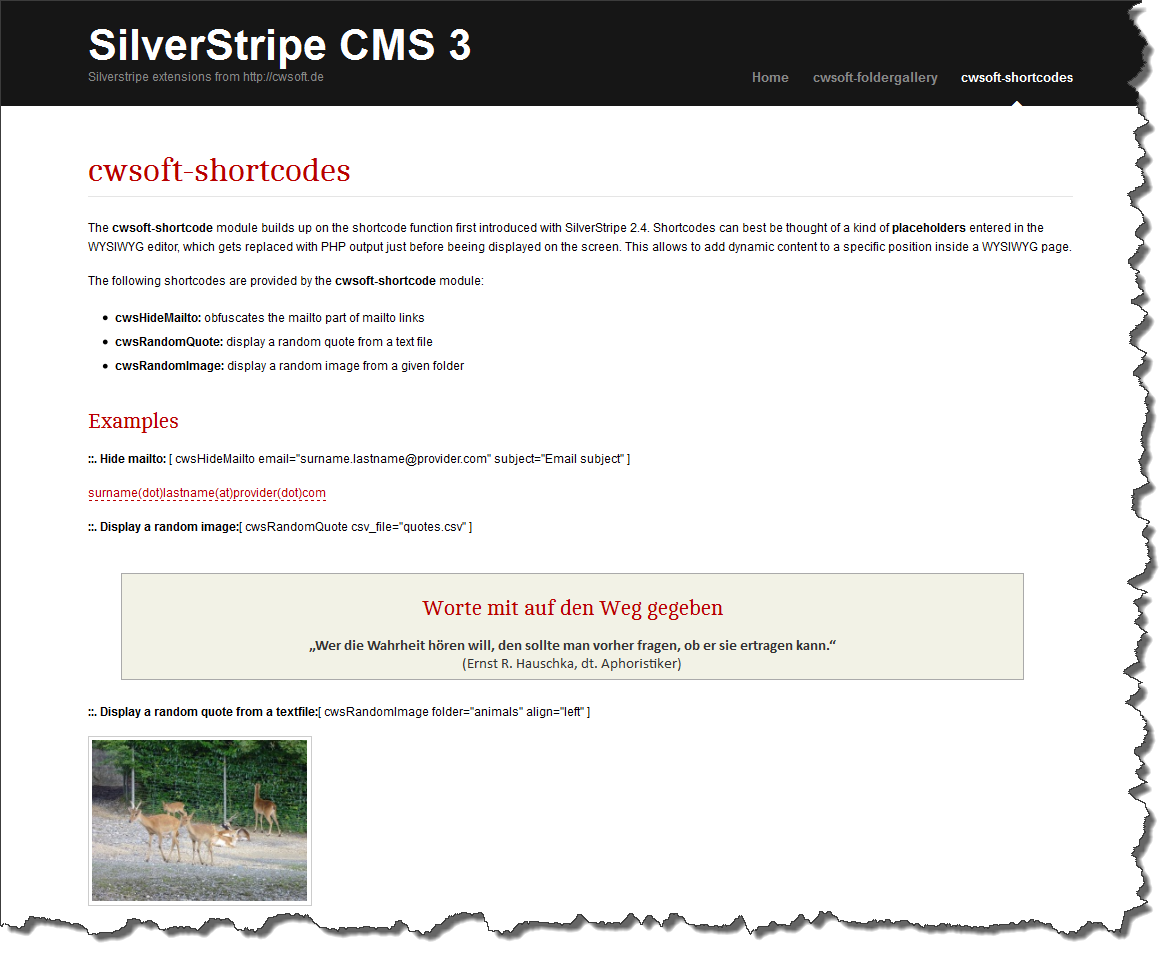
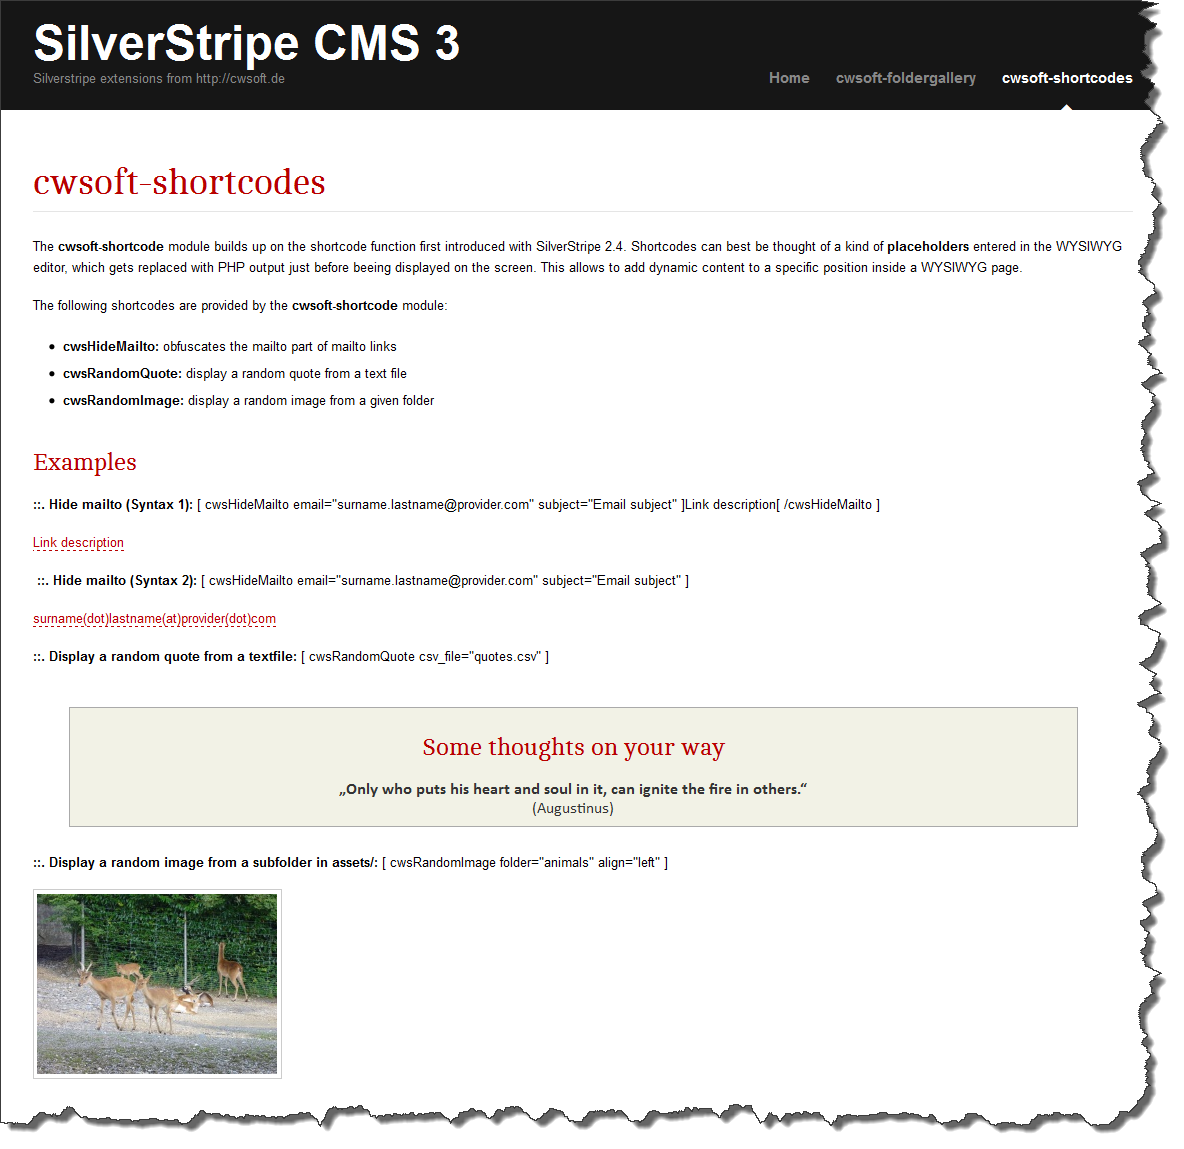
Issued version 2.1.0
- updated old _t() calls in templates with new syntax <%t %>
- reworked template files

Changed region(s): [[0.0, 0.0, 1.0, 0.999]]

diff --git a/cwsoft-shortcode/code/cwsShortCodeRandomQuote.php b/cwsoft-shortcode/code/cwsShortCodeRandomQuote.php
@@ -23,7 +23,7 @@
 class cwsShortCodeRandomQuote {
 	/**
 	 * Displays random quote from a CSV file located in a assets subfolder
-	 * Uses template "cwsoft-shortcode/templates/Includes/cwsShortCodeRandomQuote.ss" for output 
+	 * Uses template "cwsoft-shortcode/templates/Includes/RandomQuote.ss" for output 
 	 * 
 	 * @param $arguments (csv_file = 'subfolder_in_assets/csv_file.csv')
 	 * @param $content = null
@@ -34,13 +34,12 @@ class cwsShortCodeRandomQuote {
 		// only proceed if a CSV file was specified 
 		if (! isset($arguments['csv_file'])) return;
 		
-		$citation = array();
-		$csvFile = 'assets/' . Convert::raw2sql($arguments['csv_file']);
-		
-		// make sure $csvFile resists inside assets folder (valid file object)   
-		if (File::find($csvFile)) {
+		// check if CSV file exists in assets folder
+		$csvFile = ASSETS_DIR . '/' . Convert::raw2sql($arguments['csv_file']);
+		$data = array();
+		if (Director::fileExists($csvFile)) {
 			$csv = new CSVParser($filename = $csvFile, $delimiter = '|', $enclosure = '"');
-			// iterate through imported quotes|author entries and store results in array
+			// iterate through imported Quotes|Author entries and store results in array
 			$citations = array();
 			foreach($csv as $row) {
   				// only store entries with two data fields (quotation and author)
@@ -48,20 +47,19 @@ class cwsShortCodeRandomQuote {
             	$citations[] = $row;
 			}
 
-        	// randomize citation array, pick first element for display
+			// prepare data for output (randomize array and fetch first citation for output)
         	shuffle($citations);
-			$cwsRandomQuote = $citations[0];
-			unset($citations);
+			$data = $citations[0];
 		}
 		
-		// use default citation if CSV file is invalid
-		if (! (isset($cwsRandomQuote['quote']) && isset($cwsRandomQuote['author'])) ) {
-			$cwsRandomQuote['quote'] = _t('cwsShortCodeRandomQuote.DEFAULTQUOTE','Only who puts his heart and soul in it, can ignite the fire in others.');
-			$cwsRandomQuote['author'] = _t('cwsShortCodeRandomQuote.DEFAULTAUTHOR','Augustinus');
+		// use default citation if CSV file does not exist or is invalid
+		if (! (isset($data['Quote']) && isset($data['Author'])) ) {
+			$data['Quote'] = _t('cwsShortCodeRandomQuote.DEFAULT_QUOTE','Only who puts his heart and soul in it, can ignite the fire in others.');
+			$data['Author'] = _t('cwsShortCodeRandomQuote.DEFAULT_AUTHOR','Augustinus');
 		}
 		
 		// load template and process data
-		$template = new SSViewer('cwsShortCodeRandomQuote');
-		return $template->process(new ArrayData($cwsRandomQuote));	
+		$template = new SSViewer('RandomQuote');
+		return $template->process(new ArrayData($data));	
 	}
 }

diff --git a/cwsoft-shortcode/code/cwsShortCodeRandomImage.php b/cwsoft-shortcode/code/cwsShortCodeRandomImage.php
@@ -24,12 +24,12 @@
 class cwsShortCodeRandomImage {
 	/**
 	 * Displays a random image with colorbox effect from a given assets subfolder
-	 * Uses template "csoft-shortcode/templates/Includes/cwsShortCodeRandomImage.ss" for output 
+	 * Uses template "csoft-shortcode/templates/Includes/RandomImage.ss" for output 
 	 * 
 	 * @param mixed $arguments (folder='subfolder_in_assets' align='left|right')
 	 * @param $content = null
 	 * @param $parser = null
-	 * @return processed template cwsShortCodeRandomImage.ss
+	 * @return processed template RandomImage.ss
 	 */
 	public static function cwsShortCodeRandomImageHandler($arguments, $content = null, $parser = null) {
 		// only proceed if subfolder was defined
@@ -43,22 +43,24 @@ class cwsShortCodeRandomImage {
 		$folder = Folder::get()->filter('Filename', "assets/$folder/")->First();
 		$randomImage = ($folder) ? Image::get()->filter('ParentID', $folder->ID)->sort('RAND()') : false;
 		
-		// quit in case user defined folder does not contain any image
+		// exit if user defined folder does not contain any image
 		if (! $randomImage) return;
 		
-		// build the output data
-		$randomImage = $randomImage->First();
-		$data = array();
-
-		$data['cwsRandomImage'] = $randomImage;
-		$data['align'] = $align;
-		$data['caption'] = $randomImage->Title;
-		if (preg_match('#(\d*-)?(.+)\.(jpg|gif|png)#i', $data['caption'], $matches)) {
-			$data['caption'] = ucfirst(str_replace('-', ' ', $matches[2]));
+		// extract image caption from image filename
+		$caption = $randomImage->Title;
+		if (preg_match('#(\d*-)?(.+)\.(jpg|gif|png)#i', $caption, $matches)) {
+			$caption = ucfirst(str_replace('-', ' ', $matches[2]));
 		}
 		
+		// prepare data for output
+		$data = array(
+			'RandomImage' => $randomImage->First(),
+			'Alignment' => $align,
+			'Caption' => $caption
+		);
+				  
 		// load template and process data
-		$template = new SSViewer('cwsShortCodeRandomImage');
+		$template = new SSViewer('RandomImage');
 		return $template->process(new ArrayData($data));
 	}
 }

diff --git a/cwsoft-shortcode/code/cwsShortCodeHideMailto.php b/cwsoft-shortcode/code/cwsShortCodeHideMailto.php
@@ -20,18 +20,18 @@
  * Mailto links are encrypted with a simple Caeser chiffre and decrypted via JavaScript on mouse click.
  * 
  * USAGE INSIDE WYSIWYG EDITOR:
- *	[cwsHideMailto email='yourmail@domain.com' subject='optional_mail_subject']
  *	[cwsHideMailto email='yourmail@domain.com' subject='optional_mail_subject']mail_link_text[/cwsHideMailto]
+ *	[cwsHideMailto email='yourmail@domain.com' subject='optional_mail_subject']
 */
 class cwsShortCodeHideMailto {
 	/**
 	 * Implements the mailto handler to protect email addresses defined via [cwsHideMailto email='xxx']
-	 * Uses template "cwsoft-shortcode/templates/Includes/cwsShortCodeHideMailto.ss" for output
+	 * Uses template "cwsoft-shortcode/templates/Includes/HideMailto.ss" for output
 	 * 
 	 * @param mixed $arguments (email='yourmail@domain.com' subject='mail subject')
 	 * @param $content = null
 	 * @param $parser = null
-	 * @return processed template cwsShortCodeHideMailto.ss
+	 * @return processed template HideMailto.ss
 	 */
 	public static function cwsShortCodeHideMailtoHandler($arguments, $content = null, $parser = null) {
 		// only proceed if a valid email was defined
@@ -49,14 +49,15 @@ class cwsShortCodeHideMailto {
 		// create a random key for the caesar cipher
 		$key = mt_rand(1, 30);
 
-		// collect output data
-		$data = array();
-		$data['email'] = (self::caesar_cipher('mailto:' . $email, $key));
-		$data['subject'] = rawurldecode($subject . chr(64 + $key));
-		$data['description'] = $description;
+		// prepare data for output
+		$data = array(
+			'CryptedMailto' => self::caesar_cipher('mailto:' . $email, $key),
+			'Subject' => rawurldecode($subject . chr(64 + $key)),
+			'LinkText' => $description
+		);
 		
 		// load template and process data
-		$template = new SSViewer('cwsShortCodeHideMailto');
+		$template = new SSViewer('HideMailto');
 		return $template->process(new ArrayData($data));
 	}
 

diff --git a/cwsoft-shortcode/_config.php b/cwsoft-shortcode/_config.php
@@ -9,7 +9,7 @@
  * 
  * @platform    CMS SilverStripe 3
  * @package     cwsoft-shortcode
- * @version     2.0.0
+ * @version     2.1.0
  * @author      cwsoft (http://cwsoft.de)
  * @copyright   cwsoft
  * @license     http://www.gnu.org/licenses/gpl-3.0.html

diff --git a/README.md b/README.md
@@ -49,20 +49,20 @@ Enter the following shortcode into the WYSIWYG editor of a default page type to 
 
         [cwsRandomQuote csv_file="subfolder_in_assets/quotes.csv"]
 
-The textfile with the quotes must follow the conventions below (including first line):
+The textfile with the quotes must follow the conventions below (***ensure*** thaat the first line of your CSV file exactly matches the example below):
 
-	"quote"|"author"
+	"Quote"|"Author"
 	"your first quote goes here"|"author name"
 	"next quote goes here"|"autor of this quote"
 
-**Tip:** The appearance of the quote can be adjusted to your needs via template file *cwsoft-shortcode/templates/Include/cwsShortCodeRandomQuote.ss* and the CSS file located in *cwsoft-shortcode/css/cwsShortCodeRandomQuote.css*.
+**Tip:** The appearance of the quote can be adjusted to your needs via template file *cwsoft-shortcode/templates/Include/RandomQuote.ss* and the CSS file located in *cwsoft-shortcode/css/cwsShortCodeRandomQuote.css*.
 
 ### Shortcode: [cwsRandomImage]
 Enter the following shortcode into the WYSIWYG editor of a default page type to displays a random image with colorbox effect from a subfolder in ***/assets***.
 
         [cwsRandomImage folder="subfolder_in_assets" align="left|right"]
 
-**Tip:** The alignment of the image can be set to left or right. The appearance of the thumbnail can be adjusted to your needs via template file *cwsoft-shortcode/templates/Include/cwsShortCodeRandomImage.ss* and the CSS file located in *cwsoft-shortcode/css/cwsShortCodeRandomImage.css*.
+**Tip:** The alignment of the image can be set to left or right. The appearance of the thumbnail can be adjusted to your needs via template file *cwsoft-shortcode/templates/Include/RandomImage.ss* and the CSS file located in *cwsoft-shortcode/css/cwsShortCodeRandomImage.css*.
 
 A screenshot with the frontend output of the three shortcode methods is shown below:
 ![](https://github.com/cwsoft/silverstripe-shortcode/raw/master/.screenshots/cwsoft-shortcode.png) 
